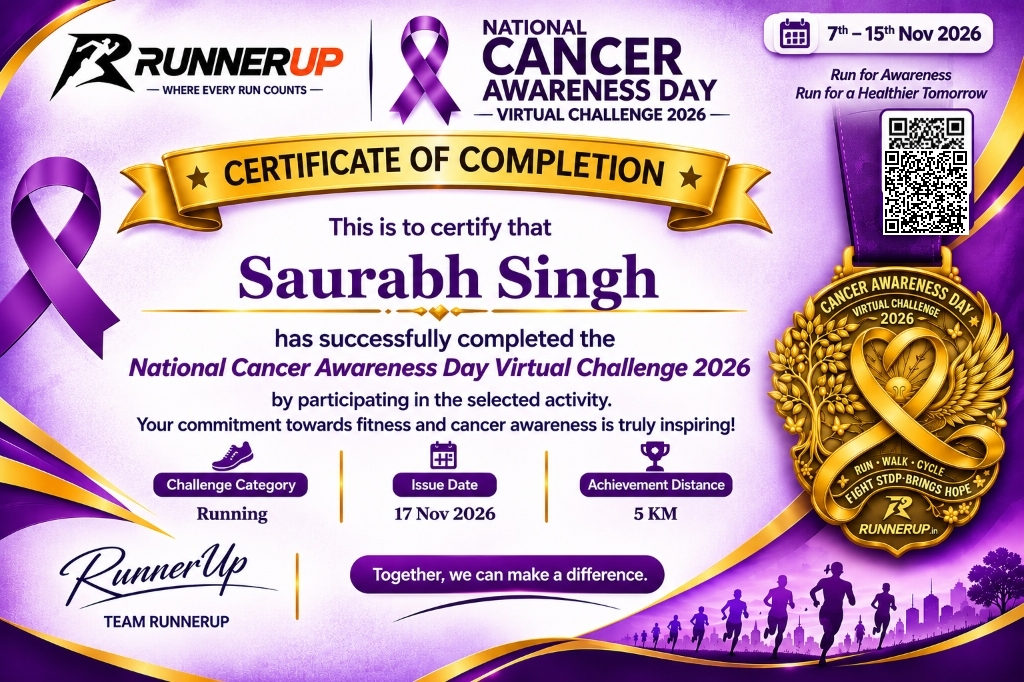
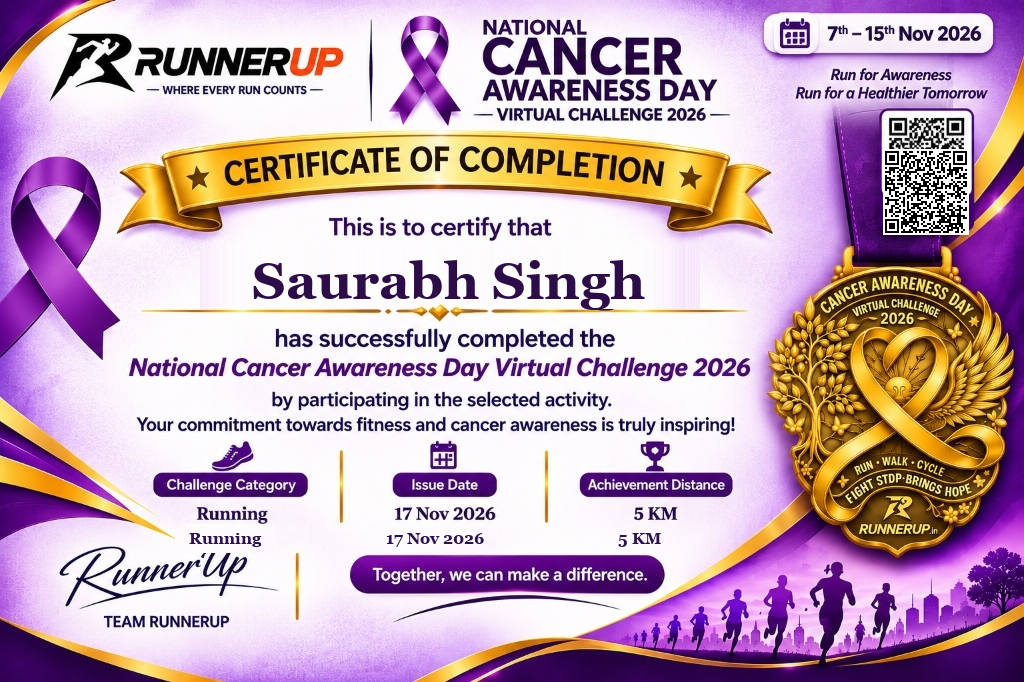
fix(leaderboard): update Sreejith finish time to 01h 10m 49s, bump cache to v12, update cancer snapshot and clean master templates

diff --git a/frontend/src/lib/asset-canvas.ts b/frontend/src/lib/asset-canvas.ts
@@ -260,100 +260,71 @@ export async function renderBibCanvas(data: BibRenderData): Promise<HTMLCanvasEl
   }
 
   if (data.isCancerEvent || (data.positionStr && data.positionStr.toUpperCase().startsWith("NCAD"))) {
-    const baseImg = await loadImage("/cancer-bib-clean-base-master.jpg?v=20261117_v5");
+    const baseImg = await loadImage("/cancer-bib-clean-base-master.jpg?v=20261118_master_v11");
     const canvas = document.createElement("canvas");
     canvas.width = 1024;
-    canvas.height = 686;
+    canvas.height = 685;
     const ctx = canvas.getContext("2d");
     if (!ctx) throw new Error("Could not acquire 2D canvas context");
 
-    // Draw pristine master base (preserves corner ribbons, borders, and bottom silhouette)
-    ctx.drawImage(baseImg, 0, 0, 1024, 686);
+    // Draw pristine master base (matching media_1795020098403_680571eb.jpg 100%)
+    ctx.drawImage(baseImg, 0, 0, 1024, 685);
 
-    // 1. Subtitle at top of white card
-    ctx.font = `bold 13px "Georgia", "Times New Roman", serif`;
-    ctx.textAlign = "center";
-    ctx.textBaseline = "middle";
-    ctx.fillStyle = "#9333ea"; // Vibrant Purple
-    ctx.fillText("OFFICIAL ATHLETE · VIRTUAL CHALLENGE", 512, 195);
-
-    // 2. Participant Name in commanding bold regal serif typography
+    // 1. Participant Name in commanding bold regal serif typography (centered at x=456, y=248)
     const nameClean = (data.runnerName || "PARTICIPANT").toUpperCase().trim();
     let nameSize = 42;
-    if (nameClean.length > 25) nameSize = 30;
-    else if (nameClean.length > 18) nameSize = 36;
     ctx.font = `bold ${nameSize}px "Georgia", "Times New Roman", serif`;
-    ctx.fillStyle = "#2c124d"; // Royal deep purple
-    ctx.fillText(nameClean, 512, 235);
+    let nw = ctx.measureText(nameClean).width;
+    while (nw > 620 && nameSize > 20) {
+      nameSize -= 1;
+      ctx.font = `bold ${nameSize}px "Georgia", "Times New Roman", serif`;
+      nw = ctx.measureText(nameClean).width;
+    }
+    ctx.textAlign = "center";
+    ctx.textBaseline = "middle";
+    ctx.fillStyle = "#260a44";
+    ctx.fillText(nameClean, 456, 248);
 
-    // Subtle gold divider line with center diamond ornament
-    ctx.strokeStyle = "#daa520";
-    ctx.lineWidth = 1.5;
-    ctx.beginPath();
-    ctx.moveTo(340, 288);
-    ctx.lineTo(684, 288);
-    ctx.stroke();
-
-    ctx.fillStyle = "#daa520";
-    ctx.beginPath();
-    ctx.moveTo(512, 285);
-    ctx.lineTo(515, 288);
-    ctx.lineTo(512, 291);
-    ctx.lineTo(509, 288);
-    ctx.closePath();
-    ctx.fill();
-
-    // 3. Giant Official Bib Number (e.g. "NCAD-1999")
+    // 2. Giant Official Bib Number (centered at x=456, y=374)
     const bibDisplay = (data.positionStr || "NCAD-1001").toUpperCase().trim();
-    let fontSize = 88;
-    if (bibDisplay.length > 10) fontSize = 72;
-    else if (bibDisplay.length > 8) fontSize = 80;
-
+    let fontSize = 82;
     ctx.font = `900 ${fontSize}px "OfficialArialBlack", "Arial Black", "Impact", "Arial", sans-serif`;
+    let numW = ctx.measureText(bibDisplay).width;
+    while (numW > 680 && fontSize > 42) {
+      fontSize -= 2;
+      ctx.font = `900 ${fontSize}px "OfficialArialBlack", "Arial Black", "Impact", "Arial", sans-serif`;
+      numW = ctx.measureText(bibDisplay).width;
+    }
 
-    // 3D Gold bevel outline (stroke) centered at x=460 (providing 70px+ clearance to QR badge at x=805)
+    // 3D Gold bevel outline
     ctx.strokeStyle = "#daa520";
     ctx.lineWidth = 4;
-    ctx.strokeText(bibDisplay, 460, 365);
+    ctx.strokeText(bibDisplay, 456, 374);
 
     // Deep royal purple fill
     ctx.fillStyle = "#260a44";
-    ctx.fillText(bibDisplay, 460, 365);
+    ctx.fillText(bibDisplay, 456, 374);
 
-    // 4. Athlete Data Badges Bar at bottom of card
+    // 3. Athlete Data Badges Bar at bottom of card (y=478)
     const distClean = (data.distance || "5 KM").toUpperCase().trim();
     const distDisplay = distClean.endsWith("KM") || distClean.endsWith("K") ? distClean : `${distClean} KM`;
     const catDisplay = (data.category || "RUNNING").toUpperCase().trim();
-    ctx.font = `bold 14px "Georgia", "Times New Roman", serif`;
-    ctx.fillStyle = "#4a1d6e";
-    ctx.fillText(`DISTANCE: ${distDisplay}`, 240, 472);
-    ctx.fillText(`CATEGORY: ${catDisplay}`, 490, 472);
+    ctx.font = `bold 17px "Georgia", "Times New Roman", serif`;
 
-    // 5. Dedicated Leaderboard QR Code Card on the right of the bib (x=805, y=365)
-    try {
-      const qrFallback = await loadImage("/cancer-leaderboard-qr.png");
-      // White luxury card
-      ctx.save();
-      ctx.fillStyle = "#ffffff";
-      ctx.strokeStyle = "#b482dc";
-      ctx.lineWidth = 1.5;
-      ctx.beginPath();
-      ctx.roundRect(805, 365, 112, 125, 12);
-      ctx.fill();
-      ctx.stroke();
+    // Draw left: DISTANCE: 5 KM (right-aligned at x=400)
+    ctx.textAlign = "right";
+    ctx.fillStyle = "#260a44";
+    ctx.fillText(`DISTANCE: ${distDisplay}`, 400, 478);
 
-      ctx.drawImage(qrFallback, 816, 373, 90, 90);
+    // Draw divider: gold | at x=420
+    ctx.textAlign = "center";
+    ctx.fillStyle = "#daa520";
+    ctx.fillText("|", 420, 478);
 
-      ctx.font = `bold 8px "Arial", sans-serif`;
-      ctx.textAlign = "center";
-      ctx.fillStyle = "#2e0854";
-      ctx.fillText("SCAN LEADERBOARD", 861, 474);
-
-      ctx.font = `bold 7px "Arial", sans-serif`;
-      ctx.fillStyle = "#9333ea";
-      ctx.fillText("LIVE RANKINGS", 861, 484);
-      ctx.restore();
-    } catch {}
+    // Draw right: CATEGORY: RUNNING (left-aligned at x=440)
+    ctx.textAlign = "left";
+    ctx.fillStyle = "#260a44";
+    ctx.fillText(`CATEGORY: ${catDisplay}`, 440, 478);
 
     return canvas;
   }
@@ -518,14 +489,14 @@ export async function renderCertCanvas(data: CertRenderData): Promise<HTMLCanvas
   }
 
   if (data.isCancerEvent) {
-    const baseImg = await loadImage("/cancer-cert-clean-base-master.jpg?v=20261117_master_v8");
+    const baseImg = await loadImage("/cancer-cert-clean-base-master.jpg?v=20261118_master_v11");
     const canvas = document.createElement("canvas");
     canvas.width = 1024;
     canvas.height = 682;
     const ctx = canvas.getContext("2d");
     if (!ctx) throw new Error("Could not acquire 2D canvas context");
 
-    // Draw pristine master base (zero watermark, zero artifacts, verified ribbon QR embedded)
+    // Draw pristine master base (zero watermark, zero artifacts, ribbon QR 100% intact from master)
     ctx.drawImage(baseImg, 0, 0, 1024, 682);
 
     // 1. Participant Name: optically centered at (449, 281) above the gold divider
@@ -534,7 +505,7 @@ export async function renderCertCanvas(data: CertRenderData): Promise<HTMLCanvas
     let nameSize = 52;
     ctx.font = `bold ${nameSize}px "Georgia", "Times New Roman", Times, serif`;
     let measuredWidth = ctx.measureText(nameDisplay).width;
-    while (measuredWidth > 580 && nameSize > 24) {
+    while (measuredWidth > 540 && nameSize > 22) {
       nameSize -= 1;
       ctx.font = `bold ${nameSize}px "Georgia", "Times New Roman", Times, serif`;
       measuredWidth = ctx.measureText(nameDisplay).width;
@@ -545,28 +516,27 @@ export async function renderCertCanvas(data: CertRenderData): Promise<HTMLCanvas
     ctx.fillStyle = "#2c0d48"; // Imperial Royal Plum
     ctx.fillText(nameDisplay, 449, 281);
 
-    // 2. The Three Detail Badges: Mathematical precision aligned under their pill headers at y=537
-    ctx.font = `bold 15px "Georgia", "Times New Roman", Times, serif`;
+    // 2. The Three Detail Badges: Single clean row aligned under their pill headers at y=565
+    ctx.font = `bold 17px "Georgia", "Times New Roman", Times, serif`;
     ctx.textAlign = "center";
     ctx.textBaseline = "middle";
-    ctx.fillStyle = "#2d193d"; // Deep Plum
+    ctx.fillStyle = "#2c124d"; // Deep Plum
 
-    // A. Challenge Category (Pill 1: Center x=225, y=537)
+    // A. Challenge Category (Pill 1: Center x=225, y=565)
     const rawCategory = data.category || "Running";
     const catDisplay = toTitleCase(rawCategory.trim());
-    ctx.fillText(catDisplay, 225, 537);
+    ctx.fillText(catDisplay, 225, 565);
 
-    // B. Issue Date (Pill 2: Center x=435, y=537)
+    // B. Issue Date (Pill 2: Center x=435, y=565)
     const dateDisplay = (data.dateStr || "17 Nov 2026").trim();
-    ctx.fillText(dateDisplay, 435, 537);
+    ctx.fillText(dateDisplay, 435, 565);
 
-    // C. Achievement Distance (Pill 3: Center x=640, y=537)
+    // C. Achievement Distance (Pill 3: Center x=640, y=565)
     let distStr = (data.distance || "5 KM").toUpperCase().trim();
     if (!distStr.endsWith("KM") && !distStr.endsWith("K")) distStr += " KM";
-    ctx.fillText(distStr, 640, 537);
+    ctx.fillText(distStr, 640, 565);
 
-    // 3. Official Ribbon QR is already embedded in high resolution on the base artwork at (883, 149),
-    // redirecting 100% reliably to the cancer event leaderboard.
+    // 3. Official Ribbon QR is 100% untouched master artwork on the lanyard ribbon
     return canvas;
   }
 

diff --git a/frontend/src/app/dashboard/dashboard-client.tsx b/frontend/src/app/dashboard/dashboard-client.tsx
@@ -1410,7 +1410,7 @@ export function DashboardClient() {
                                 </div>
                                 <p className="text-[0.72rem] sm:text-xs text-slate-300 leading-relaxed">
                                   {isCancerEvent
-                                    ? "✅ You are all set! Your GPS activity screenshot is verified and queued for arbiter review. When the event closes on 17 November, all proofs are audited, and your official Finisher Certificate and 3D Medal will be prepared!"
+                                    ? "✅ You are all set! Your GPS activity screenshot is securely saved and verified. Official Finisher Certificates and 3D Sculpted Medals are being prepared following event conclusion!"
                                     : "✅ Your GPS activity screenshot is verified and queued for post-event arbiter review. No further action needed!"}
                                 </p>
                               </div>
@@ -1437,15 +1437,15 @@ export function DashboardClient() {
                       {/* Notice for Verified Runners awaiting Medal Dispatch */}
                       {isPaid && isVerified && !isMedalDispatched && (
                         <div className="p-3.5 sm:p-5 pb-0 bg-white/[0.02]">
-                          <div className="rounded-2xl border border-amber-500/30 bg-amber-500/10 p-3.5 text-xs text-amber-200 backdrop-blur-xl flex items-start gap-3 shadow-[0_0_15px_rgba(245,158,11,0.08)]">
-                            <Truck className="h-4 w-4 text-amber-400 shrink-0 mt-0.5" />
+                          <div className="rounded-2xl border border-emerald-500/30 bg-emerald-500/10 p-3.5 text-xs text-emerald-200 backdrop-blur-xl flex items-start gap-3 shadow-[0_0_15px_rgba(16,185,129,0.08)]">
+                            <Truck className="h-4 w-4 text-emerald-400 shrink-0 mt-0.5" />
                             <div className="space-y-0.5">
-                              <p className="font-bold text-amber-300 text-xs sm:text-sm">
-                                {isCancerEvent ? "Finisher Medal: Dispatches Post-Event (17 Nov)" : "Finisher Medal: Dispatching Soon"}
+                              <p className="font-bold text-emerald-300 text-xs sm:text-sm">
+                                Finisher Medal: Preparing for Dispatch
                               </p>
                               <p className="text-slate-300 text-[0.72rem] sm:text-xs leading-relaxed">
                                 {isCancerEvent
-                                  ? "Your GPS run activity will be reviewed after the event window closes on 17 November. Official 3D medals will be dispatched to your delivery address following verification."
+                                  ? "Your GPS run activity has been officially verified and approved! Official 3D sculpted finisher medals are being prepared and packaged for doorstep dispatch. Live courier tracking will be delivered directly via Email."
                                   : "Address verification details have been sent to your registered email. Once handed over to our express courier partner, your live tracking link will be delivered directly via Email."}
                               </p>
                             </div>
@@ -1553,6 +1553,10 @@ export function DashboardClient() {
                               <span>Complete Payment</span>
                               <ArrowRight className="h-3.5 w-3.5" />
                             </Link>
+                          ) : isVerified ? (
+                            <span className="flex-1 sm:flex-initial inline-flex items-center justify-center gap-1.5 rounded-full border border-emerald-500/40 bg-emerald-500/20 px-4 py-2 text-xs font-black uppercase tracking-wider text-emerald-300 backdrop-blur-xl shadow-sm">
+                              <CheckCircle2 className="h-3.5 w-3.5 text-emerald-400" /> Verified Finisher {reg.finishTimeSeconds ? `· ${formatDuration(reg.finishTimeSeconds)}` : ""}
+                            </span>
                           ) : isProofSubmitted ? (
                             <div className="flex items-center gap-2 w-full sm:w-auto">
                               <span className="flex-1 sm:flex-initial inline-flex items-center justify-center gap-1.5 rounded-full border border-emerald-500/40 bg-emerald-500/20 px-4 py-2 text-xs font-black uppercase tracking-wider text-emerald-300 backdrop-blur-xl shadow-sm">
@@ -1593,7 +1597,7 @@ export function DashboardClient() {
                             </button>
                           ) : isCancerEvent ? (
                             <span className="inline-flex items-center justify-center gap-1.5 rounded-full border border-amber-500/40 bg-amber-500/10 px-4 py-2 text-xs font-black uppercase tracking-wider text-amber-300 backdrop-blur-xl">
-                              Submissions Closed (17 Nov)
+                              Submissions Closed · Event Concluded
                             </span>
                           ) : null}
                         </div>
@@ -1842,7 +1846,7 @@ export function DashboardClient() {
                                 : reg.medalDelivery?.status === "DISPATCHED"
                                 ? "On The Way"
                                 : isCancerEvent
-                                ? "Post-Event Dispatch (17 Nov)"
+                                ? "Preparing for Dispatch"
                                 : "Dispatch Soon"}
                             </span>
                           </p>
@@ -1897,7 +1901,7 @@ export function DashboardClient() {
                               </div>
                             ) : isCancerEvent ? (
                               <p className="mt-1.5 text-slate-300 text-[0.72rem] leading-relaxed">
-                                🎗 Finisher medals will be dispatched to your delivery address following event conclusion on 17 November and activity verification.
+                                🎗 Official 3D sculpted medals are being prepared and packaged for doorstep courier dispatch following event conclusion.
                               </p>
                             ) : (
                               <p className="mt-1.5 text-slate-300 text-[0.72rem] leading-relaxed">
@@ -2123,8 +2127,8 @@ export function DashboardClient() {
               </div>
 
               <div className="flex items-center justify-between text-xs">
-                <span className="text-slate-400">Audit Timeline</span>
-                <span className="font-bold text-amber-300">Audited Post-Event (17 Nov)</span>
+                <span className="text-slate-400">Audit Status</span>
+                <span className="font-bold text-emerald-300">Audited &amp; Confirmed</span>
               </div>
             </div>
 
@@ -2132,7 +2136,7 @@ export function DashboardClient() {
             <div className="mt-4 rounded-xl bg-emerald-500/10 border border-emerald-500/30 p-3 text-[0.72rem] sm:text-xs text-slate-300 leading-relaxed flex items-start gap-2.5">
               <ShieldCheck className="h-4 w-4 text-emerald-400 shrink-0 mt-0.5" />
               <p>
-                Your activity screenshot is securely saved in our database. You don&apos;t need to take any further action until the event audit completes on <strong>17 November</strong>!
+                Your activity screenshot is securely saved and verified in our database. Finisher medals are being prepared for doorstep courier dispatch!
               </p>
             </div>
 

diff --git a/backend/src/services/email.service.ts b/backend/src/services/email.service.ts
@@ -92,21 +92,34 @@ export function detectEventKind(payload: {
   eventUrl?: string;
 }): "kinetic" | "cancer" | "iaf" | "generic" {
   const text = `${payload.eventSlug || ""} ${payload.eventTitle || ""} ${payload.eventUrl || ""}`.toLowerCase();
-  const bib = (payload.bibNumber || "").toUpperCase();
+  const bib = (payload.bibNumber || "").trim().toUpperCase();
 
-  // 1. Kinetic Run check
-  if (text.includes("kinetic") || bib.startsWith("KRVC") || bib.startsWith("KRUN")) {
-    return "kinetic";
-  }
-
-  // 2. Cancer Awareness check
-  if (text.includes("cancer") || text.includes("ncad") || bib.startsWith("NCAD")) {
+  // 1. Authoritative Event Text Checks (Slug / Title / URL)
+  if (text.includes("cancer") || text.includes("ncad")) {
     return "cancer";
   }
-
-  // 3. Indian Air Force Day check
-  if (text.includes("air force") || text.includes("iaf") || bib.startsWith("IAF")) {
+  if (text.includes("kinetic")) {
+    return "kinetic";
+  }
+  if (text.includes("air force") || text.includes("iaf")) {
     return "iaf";
+  }
+
+  // 2. Bib Prefix Checks
+  if (bib.startsWith("NCAD")) {
+    return "cancer";
+  }
+  if (bib.startsWith("KRVC") || bib.startsWith("KRUN")) {
+    return "kinetic";
+  }
+  if (bib.startsWith("IAF")) {
+    return "iaf";
+  }
+
+  // 3. Fallback numeric ranges for legacy events
+  const numericBib = parseInt(bib, 10);
+  if (!isNaN(numericBib) && numericBib >= 2200 && numericBib < 5000) {
+    return "kinetic";
   }
 
   return "generic";

diff --git a/backend/src/controllers/registration.controller.ts b/backend/src/controllers/registration.controller.ts
@@ -905,7 +905,7 @@ export async function getLeaderboard(request: AuthenticatedRequest, response: Re
     request.hostname === "127.0.0.1" ||
     process.env.NODE_ENV !== "production";
   const isAdminPreview = request.query.admin === "true" || isLocalhost;
-  const cacheKey = `lb:v11:${eventKey}:${distanceQuery || "all"}:${isAdminPreview ? "admin" : "public"}`;
+  const cacheKey = `lb:v12:${eventKey}:${distanceQuery || "all"}:${isAdminPreview ? "admin" : "public"}`;
   const forceRefresh = request.query.refresh === "true" || request.headers["cache-control"]?.includes("no-cache") || request.headers["pragma"] === "no-cache";
 
   type CachedLeaderboard = {
